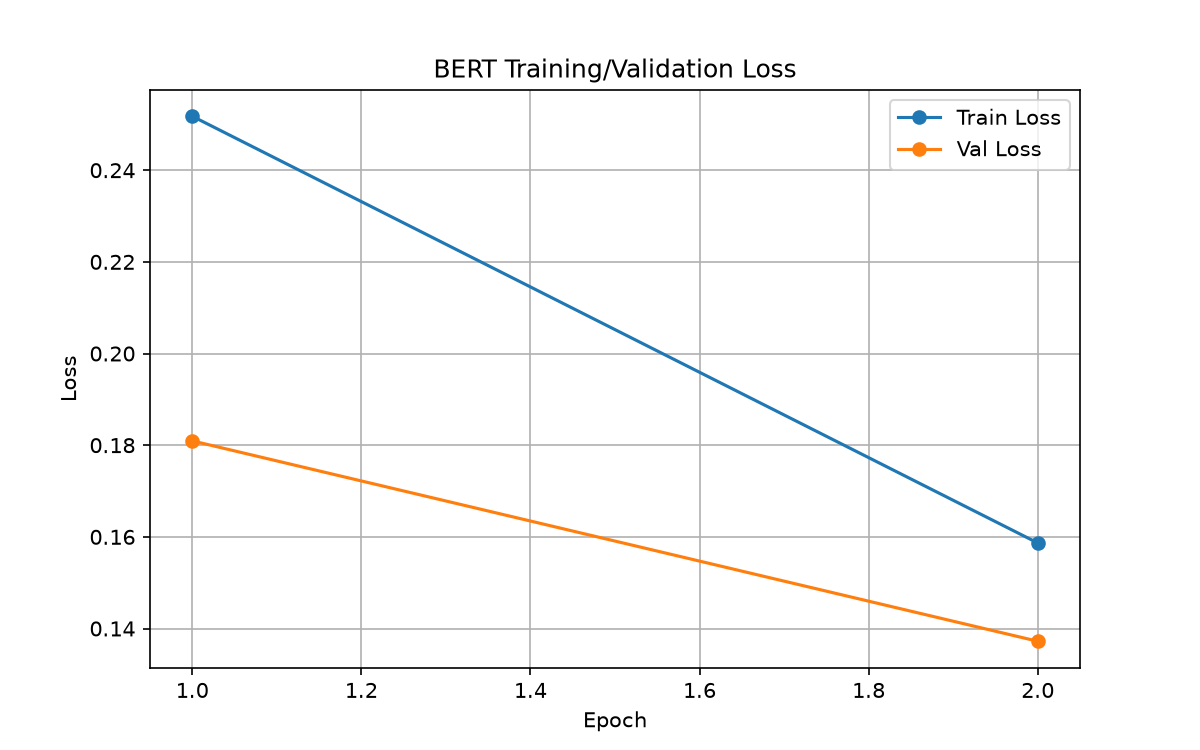
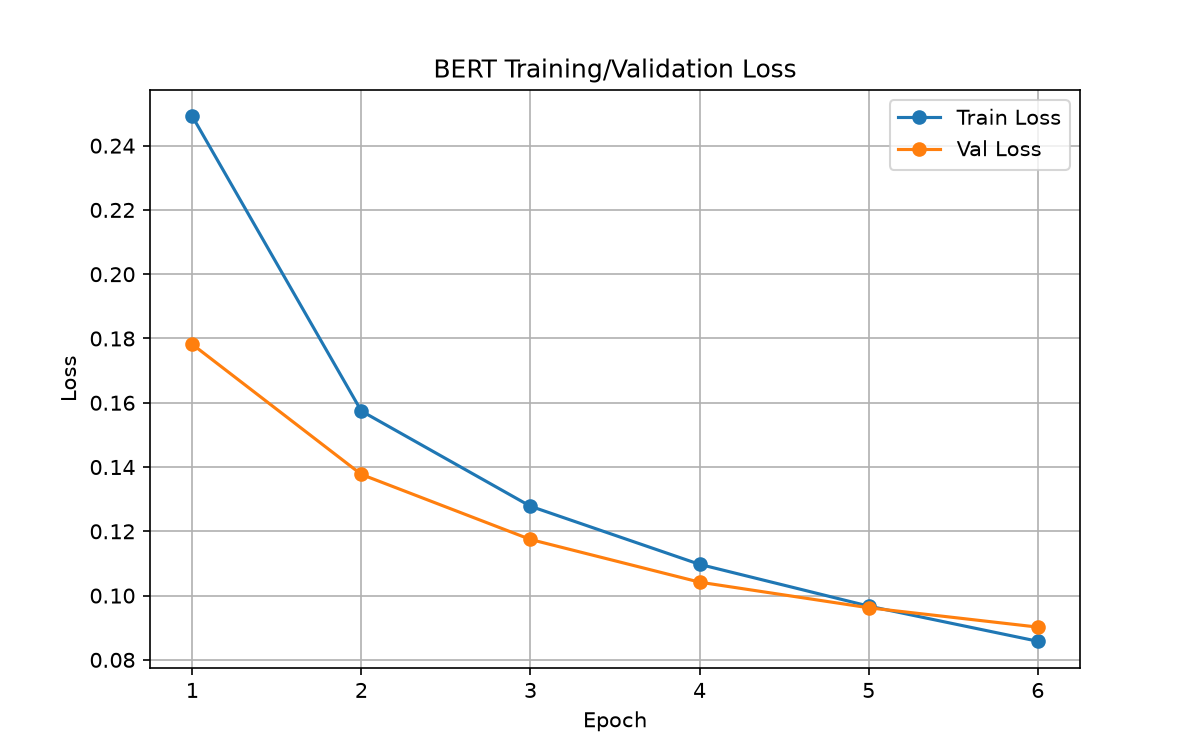
Final BERT baseline: 6 epochs, test Macro-F1 0.61, Micro-F1 0.72, AUC-PR 0.71

diff --git a/src/train.py b/src/train.py
@@ -1,17 +1,18 @@
+# src/train.py
 import torch
 import torch.nn as nn
 from torch.utils.data import DataLoader
 from transformers import BertTokenizerFast
+from sklearn.metrics import f1_score
 import json
 import os
 
 from bert_encoder import BertTagClassifier
 from dataset import MusicCapsDataset
 
-# --- Config ---
 MODEL_NAME = 'bert-base-uncased'
 BATCH_SIZE = 16
-EPOCHS = 6       # start small to test everything works, increase later
+EPOCHS = 6
 LR = 2e-5
 MAX_LENGTH = 128
 
@@ -20,10 +21,8 @@ with open('data/musiccaps/label_vocab.json') as f:
 num_labels = len(label_vocab)
 
 tokenizer = BertTokenizerFast.from_pretrained(MODEL_NAME)
-
 train_ds = MusicCapsDataset('data/musiccaps/train.jsonl', tokenizer, MAX_LENGTH)
 val_ds = MusicCapsDataset('data/musiccaps/val.jsonl', tokenizer, MAX_LENGTH)
-
 train_loader = DataLoader(train_ds, batch_size=BATCH_SIZE, shuffle=True)
 val_loader = DataLoader(val_ds, batch_size=BATCH_SIZE)
 
@@ -37,7 +36,9 @@ criterion = nn.BCEWithLogitsLoss()
 os.makedirs('results', exist_ok=True)
 os.makedirs('checkpoints', exist_ok=True)
 
-history = {'train_loss': [], 'val_loss': []}
+history = {'train_loss': [], 'val_loss': [], 'val_macro_f1': [], 'val_micro_f1': []}
+best_val_f1 = -1
+best_epoch = -1
 
 for epoch in range(EPOCHS):
     model.train()
@@ -46,18 +47,17 @@ for epoch in range(EPOCHS):
         input_ids = batch['input_ids'].to(device)
         attention_mask = batch['attention_mask'].to(device)
         labels = batch['labels'].to(device)
-
         optimizer.zero_grad()
         logits = model(input_ids, attention_mask)
         loss = criterion(logits, labels)
         loss.backward()
         optimizer.step()
         total_train_loss += loss.item()
-
     avg_train_loss = total_train_loss / len(train_loader)
 
     model.eval()
     total_val_loss = 0
+    all_preds, all_labels = [], []
     with torch.no_grad():
         for batch in val_loader:
             input_ids = batch['input_ids'].to(device)
@@ -66,15 +66,31 @@ for epoch in range(EPOCHS):
             logits = model(input_ids, attention_mask)
             loss = criterion(logits, labels)
             total_val_loss += loss.item()
+            probs = torch.sigmoid(logits).cpu()
+            all_preds.append((probs > 0.5).int())
+            all_labels.append(labels.cpu())
     avg_val_loss = total_val_loss / len(val_loader)
+
+    preds_cat = torch.cat(all_preds).numpy()
+    labels_cat = torch.cat(all_labels).numpy()
+    macro_f1 = f1_score(labels_cat, preds_cat, average='macro', zero_division=0)
+    micro_f1 = f1_score(labels_cat, preds_cat, average='micro', zero_division=0)
 
     history['train_loss'].append(avg_train_loss)
     history['val_loss'].append(avg_val_loss)
-    print(f"Epoch {epoch+1}/{EPOCHS} — train_loss: {avg_train_loss:.4f}  val_loss: {avg_val_loss:.4f}")
+    history['val_macro_f1'].append(macro_f1)
+    history['val_micro_f1'].append(micro_f1)
+
+    print(f"Epoch {epoch+1}/{EPOCHS} — train_loss: {avg_train_loss:.4f}  val_loss: {avg_val_loss:.4f}  val_macro_f1: {macro_f1:.4f}  val_micro_f1: {micro_f1:.4f}")
 
     torch.save(model.state_dict(), f'checkpoints/bert_epoch{epoch+1}.pt')
+
+    if macro_f1 > best_val_f1:
+        best_val_f1 = macro_f1
+        best_epoch = epoch + 1
 
 with open('results/training_history.json', 'w') as f:
     json.dump(history, f, indent=2)
 
-print("Training done. Checkpoints saved in checkpoints/, history saved in results/training_history.json")
+print(f"\nTraining done. Best epoch by val_macro_f1: {best_epoch} (f1={best_val_f1:.4f})")
+print("Use this epoch's checkpoint in evaluate.py")

diff --git a/src/evaluate.py b/src/evaluate.py
@@ -10,8 +10,7 @@ from dataset import MusicCapsDataset
 MODEL_NAME = 'bert-base-uncased'
 BATCH_SIZE = 16
 MAX_LENGTH = 128
-CHECKPOINT = 'checkpoints/bert_epoch2.pt'   # your last (lowest val_loss) epoch
-
+CHECKPOINT = 'checkpoints/bert_epoch6.pt'
 with open('data/musiccaps/label_vocab.json') as f:
     label_vocab = json.load(f)
 num_labels = len(label_vocab)
